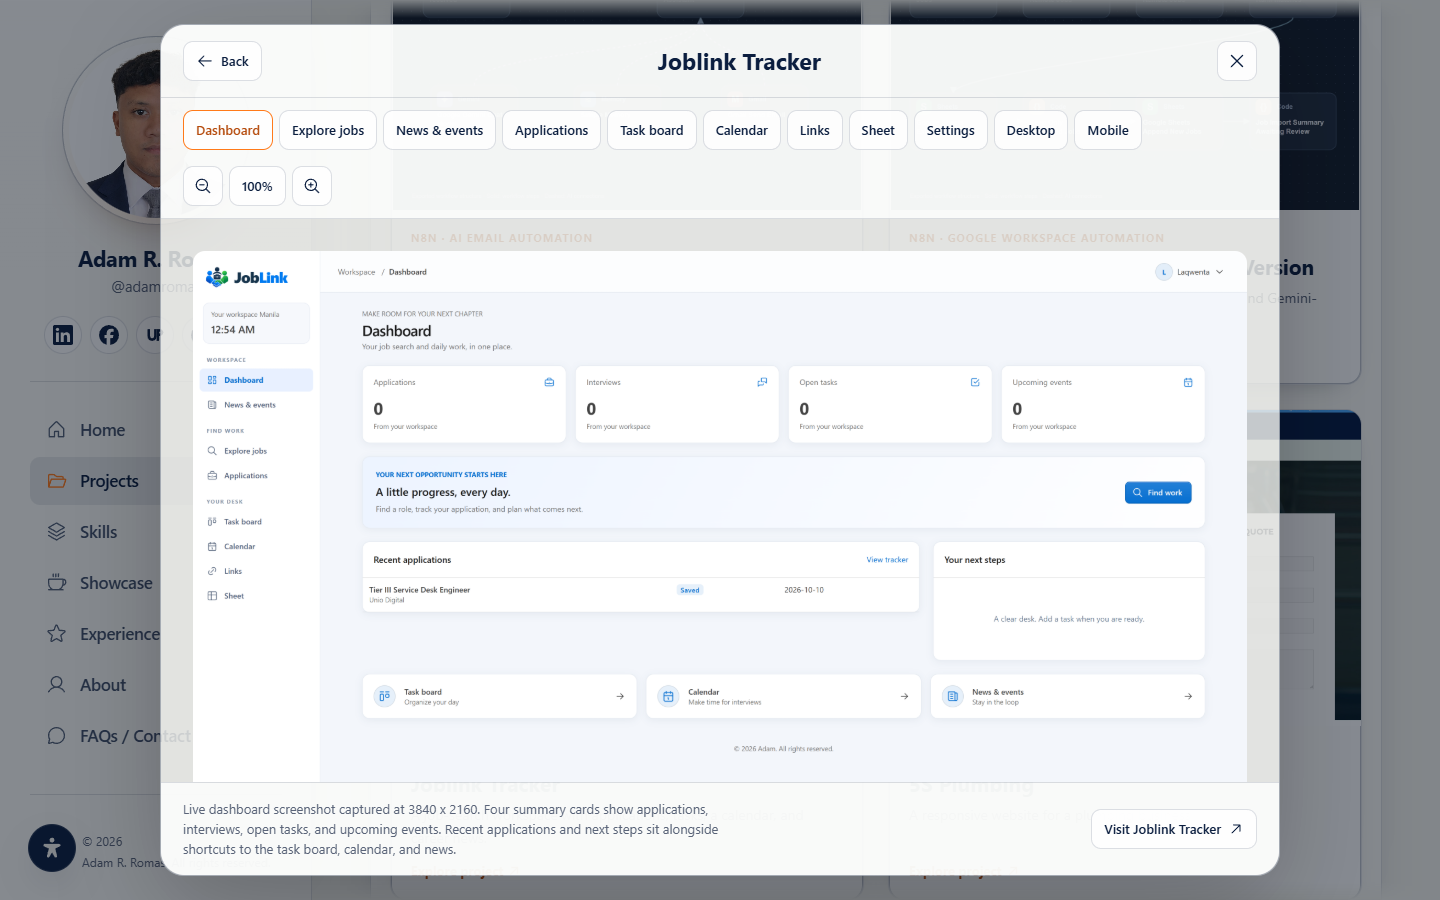
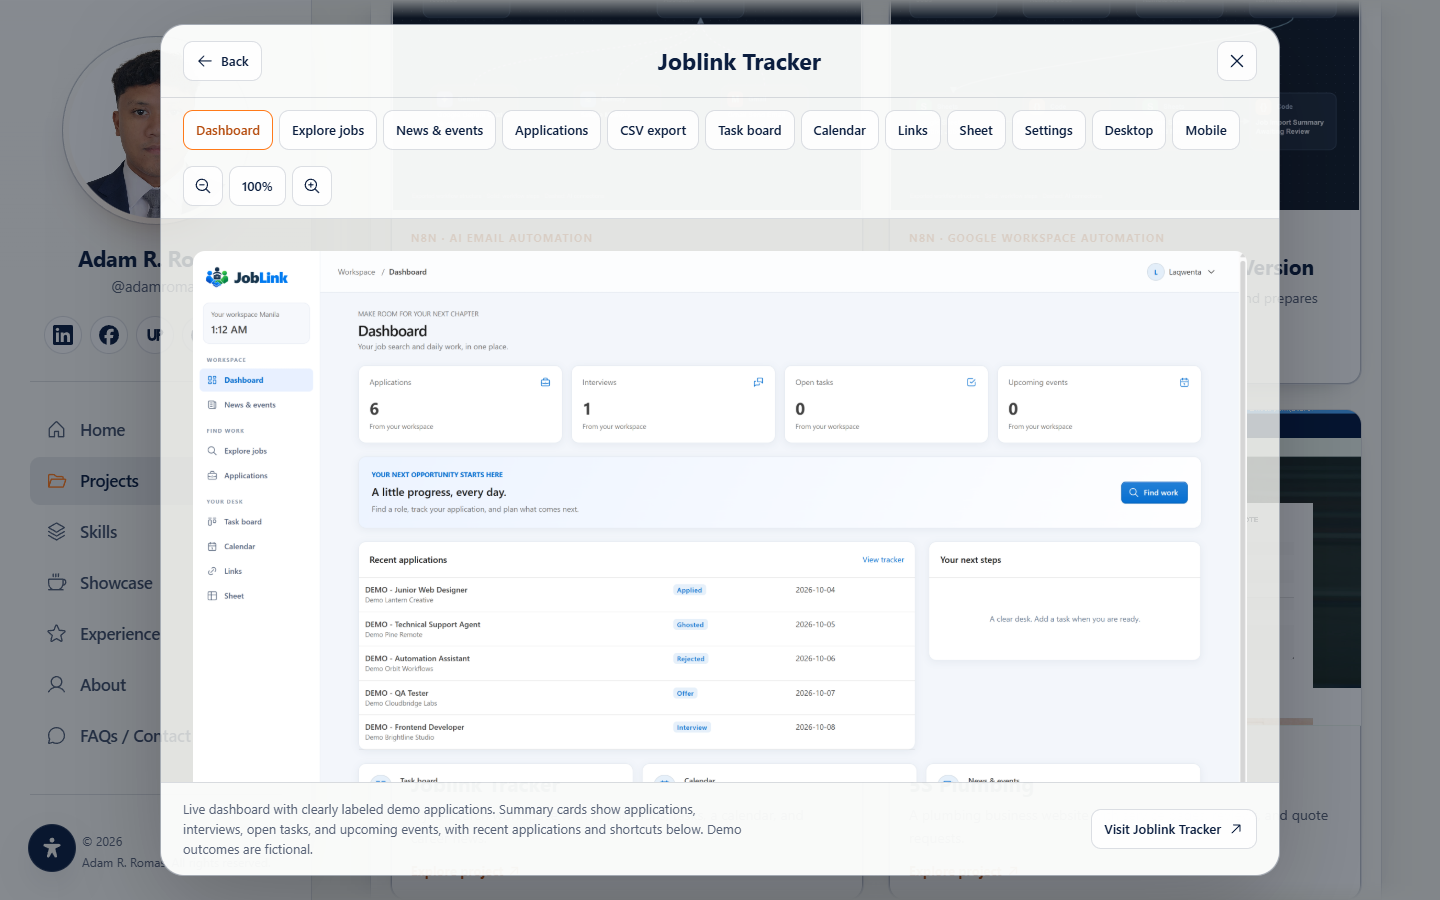
Demonstrate Joblink applications and verified CSV export with demo data

diff --git a/src/data/portfolio.ts b/src/data/portfolio.ts
@@ -33,10 +33,11 @@ export const portfolioProjects: PortfolioProject[] = [
     linkLabel: 'Visit Joblink Tracker',
     external: true,
     gallery: [
-      { src: '/images/joblink/joblink-dashboard.png', alt: 'Joblink workspace dashboard with application and planning summaries', label: 'Dashboard', caption: 'Live dashboard screenshot captured at 3840 x 2160. Four summary cards show applications, interviews, open tasks, and upcoming events. Recent applications and next steps sit alongside shortcuts to the task board, calendar, and news.' },
+      { src: '/images/joblink/joblink-dashboard.png', alt: 'Joblink workspace dashboard with application and planning summaries', label: 'Dashboard', caption: 'Live dashboard with clearly labeled demo applications. Summary cards show applications, interviews, open tasks, and upcoming events, with recent applications and shortcuts below. Demo outcomes are fictional.' },
       { src: '/images/joblink/joblink-jobs.png', alt: 'Joblink Explore Jobs page with search filters and job cards', label: 'Explore jobs', caption: 'Live Explore Jobs screenshot captured at 3840 x 2160. Search by keyword and feed, classify by role, and filter loaded listings by location and employment type. Listings from Remotive, Arbeitnow, and Jobicy link to their original application pages and provide a Save action.' },
       { src: '/images/joblink/joblink-news.png', alt: 'Joblink career news page with topic filters, DEV Community stories, and upcoming events', label: 'News & events', caption: 'Live news and events screenshot captured at 3840 x 2160. Career, remote-work, and productivity topics organize DEV Community stories with author attribution. Upcoming events and Philippine career-resource links support the job-search workspace.' },
-      { src: '/images/joblink/joblink-applications.png', alt: 'Joblink application tracker with summary statistics, status filters, and a saved job', label: 'Applications', caption: 'Keep applications in one table with role, company, salary, notes, and a link to the original listing. Summary cards show tracked jobs, open applications, interviews, offers, and reply rate. Filter by status, add or edit an application, or export the tracker as CSV.' },
+      { src: '/images/joblink/joblink-applications.png', alt: 'Joblink application tracker populated with eight clearly labeled fictional demo applications', label: 'Applications', previewWidth: 1280, caption: 'Eight fictional demo applications show every status from Saved to Offer, Rejected, and Ghosted. The table includes company, salary, date, notes, and listing links, with summary statistics above. Export CSV downloads the tracked application data.' },
+      { src: '/images/joblink/joblink-export.png', alt: 'CSV preview showing the eight demo applications downloaded from Joblink', label: 'CSV export', previewWidth: 1280, caption: 'Preview rendered from an actual Joblink CSV download. All eight demo applications and their statuses were verified in the export. This preview shows only fictional demo records; it is not an Excel or Google Sheets screenshot.' },
       { src: '/images/joblink/joblink-tasks.png', alt: 'Joblink task board with To do, In progress, and Done columns', label: 'Task board', caption: 'Plan job-search tasks on a board with To do, In progress, and Done lists. Add cards and lists, then move cards by dragging them or using their status menu. This live screenshot shows the empty board before tasks are added.' },
       { src: '/images/joblink/joblink-calendar.png', alt: 'Joblink monthly calendar and upcoming events panel', label: 'Calendar', caption: 'Organize interviews, deadlines, and career events in a monthly calendar. Add an event, return to Today, and review upcoming events beside the calendar. Dates and times use the Manila timezone.' },
       { src: '/images/joblink/joblink-links.png', alt: 'Joblink saved-links workspace with an Add link action', label: 'Links', caption: 'Keep job boards, company career pages, and useful resources in one place. The Add link action builds a personal collection. This screenshot shows the workspace before links are saved.' },

diff --git a/README.md b/README.md
@@ -54,6 +54,8 @@ The contact form opens the visitor's email application by default. An optional b
 
 The 5S Plumbing gallery contains full-page screenshots of its 12 working public marketing pages at 3840 pixels wide. `node scripts/capture-plumbing.mjs` follows the site's public links and captures them; add `--resume` to reuse existing images. The footer's `/heating-and-cooling-adam/` link returned 404 during capture; the gallery uses the working `/heating-and-cooling/` page. Forms are pictured without submitting inquiries.
 
+Joblink's application tracker demonstration includes eight clearly labeled fictional records. `node scripts/demo-joblink-applications.mjs` adds those records to the signed-in account if missing, verifies that they persist, clicks Export CSV, checks the downloaded records, and refreshes the dashboard, tracker, and CSV-preview screenshots. Run it only when adding demo records is intended. Actual downloads remain in the ignored `.preview-tools/joblink-exports/` directory; `docs/exports/joblink-demo-applications.csv` includes only the eight demo records. The CSV screenshot is a rendered preview of the verified download, not a spreadsheet-app screenshot.
+
 ## Technology
 
 React, TypeScript, Vite, React Router, CSS, Three.js, GSAP, and Phosphor icons. Browser preview checks use Playwright with Google Chrome.
